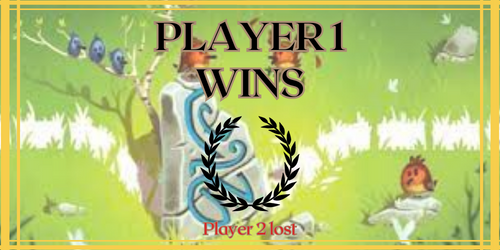
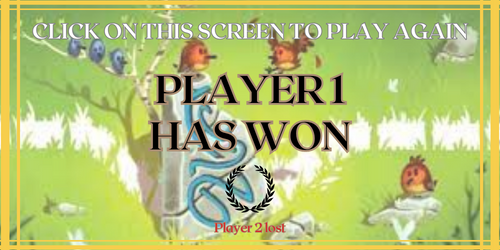
à tester et peaufiner

Changed region(s): [[0.3, 0.448, 0.72, 0.952], [0.06, 0.084, 0.96, 0.224], [0.3, 0.252, 0.69, 0.42]]

diff --git a/include/game_view.hpp b/include/game_view.hpp
@@ -11,6 +11,7 @@
 #include <QHBoxLayout>
 #include <QLabel>
 #include <QLineEdit>
+#include <QMessageBox>
 #include <QObject>
 #include <QPaintEvent>
 #include <QPainter>
@@ -53,6 +54,7 @@ class GameView : public QWidget {
   QPushButton* buttonComputer;
 
   QPushButton* buttonPlayAgain;
+  QPushButton* buttonTransition;
 
   // int resizeFactor = 100;
   // QMainWindow* parentWindow;
@@ -87,8 +89,8 @@ class GameView : public QWidget {
   void handleButton1Clicked() {
     buttonFriend->hide();
     buttonComputer->hide();
-    syncPlayer();
-    connect(game, &GameModel::turnChanged, this, &GameView::syncPlayer);
+    transition();
+    connect(game, &GameModel::turnChanged, this, &GameView::transition);
   }
   void handleButton2Clicked() {
     buttonFriend->hide();
@@ -96,8 +98,8 @@ class GameView : public QWidget {
     PlayerRobotModel* robot = new PlayerRobotModel(1);
 
     game->setRobot(robot);
-    syncPlayer();
-    connect(game, &GameModel::turnChanged, this, &GameView::syncPlayer);
+    transition();
+    connect(game, &GameModel::turnChanged, this, &GameView::transition);
   }
 
   void playAgain() {
@@ -132,6 +134,36 @@ class GameView : public QWidget {
             [this]() { handleButton2Clicked(); });
   }
 
+  void transition() {
+    if (!game->againstRobot()) {
+      qDebug() << "Tour : " << game->turn();
+
+      QLayoutItem* child;
+      while ((child = layout->takeAt(0)) != 0) {
+        qDebug() << "Deleting" << child;
+        child->widget()->deleteLater();  // delete the widget
+        delete child;
+      }
+      buttonTransition = new QPushButton(this);
+
+      if (game->turn() % 2 == 0) {
+        QPixmap buttonImageTransition("resources/players/player1Wins.png");
+        buttonTransition->setIcon(buttonImageTransition);
+        buttonTransition->setIconSize(buttonImageTransition.size());
+      } else {
+        QPixmap buttonImageTransition("resources/players/player1Wins.png");
+        buttonTransition->setIcon(buttonImageTransition);
+        buttonTransition->setIconSize(buttonImageTransition.size());
+      }
+
+      layout->addWidget(buttonTransition, 0, 0);
+
+      // connexion of buttons
+      connect(buttonTransition, &QPushButton::clicked, this,
+              [this]() { syncPlayer(); });
+    }
+  }
+
   void setFinalScreen(size_t playerId) {
     qDebug() << "gagnant :" << playerId;
 
@@ -145,9 +177,15 @@ class GameView : public QWidget {
       buttonPlayAgain->setIcon(buttonImageFriend);
       buttonPlayAgain->setIconSize(buttonImageFriend.size());
     } else if (playerId == 1) {
-      QPixmap buttonImageFriend("resources/players/player2Wins.png");
-      buttonPlayAgain->setIcon(buttonImageFriend);
-      buttonPlayAgain->setIconSize(buttonImageFriend.size());
+      if (game->againstRobot()) {
+        QPixmap buttonImageFriend("resources/players/player2Wins.png");
+        buttonPlayAgain->setIcon(buttonImageFriend);
+        buttonPlayAgain->setIconSize(buttonImageFriend.size());
+      } else {
+        QPixmap buttonImageFriend("resources/players/player2Wins.png");
+        buttonPlayAgain->setIcon(buttonImageFriend);
+        buttonPlayAgain->setIconSize(buttonImageFriend.size());
+      }
     } else {
       QPixmap buttonImageFriend("resources/players/noOneWon.png");
       buttonPlayAgain->setIcon(buttonImageFriend);
@@ -284,7 +322,6 @@ class GameView : public QWidget {
                               this->game->getPlayer()->pickCard(
                                   this->game->getDeck()->draw());
                             }
-
                             this->game->nextTurn();
                           }
                         } catch (...) {

diff --git a/include/game_model.hpp b/include/game_model.hpp
@@ -103,6 +103,11 @@ class GameModel : public QObject {
     }
     players[1] = robot;
   }
+
+  bool againstRobot() {
+    return (dynamic_cast<PlayerRobotModel*>(players[1]) != nullptr);
+  }
+
  signals:
   void turnChanged(size_t);
 
